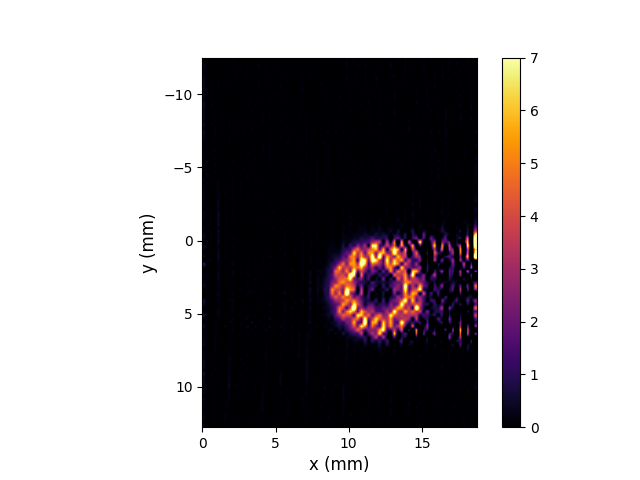
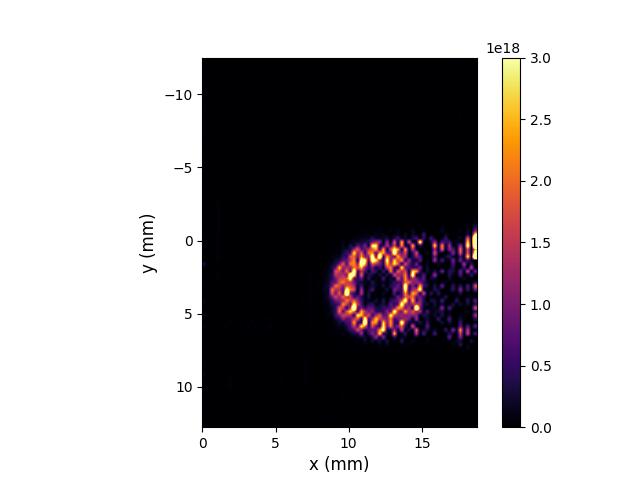
Added current and ion to post3.py

diff --git a/experiment5/bin/post3.py b/experiment5/bin/post3.py
@@ -62,5 +62,7 @@ print("Generating plots...")
 target = os.path.join(target_dir, 'pcolor.png')
 grid.density(V,U,D)
 ax = grid.pseudocolor(savefig=target, vscale=(0,3e18), values=1)
-#ax = grid.pseudocolor(savefig=target, vscale=(0,7), values=1)
+
+target = os.path.join(target_dir, 'pcolor_i.png')
+ax = grid.pseudocolor(savefig=target, vscale=(0,7), values=0)
 

diff --git a/experiment5/bin/wiretools.py b/experiment5/bin/wiretools.py
@@ -836,7 +836,7 @@ values
             fig = ax.get_figure()
 
         if values == 0:
-            X = self.get_values()
+            X = -self.get_values()
         elif values == 1:
             X = self.get_density()
 
